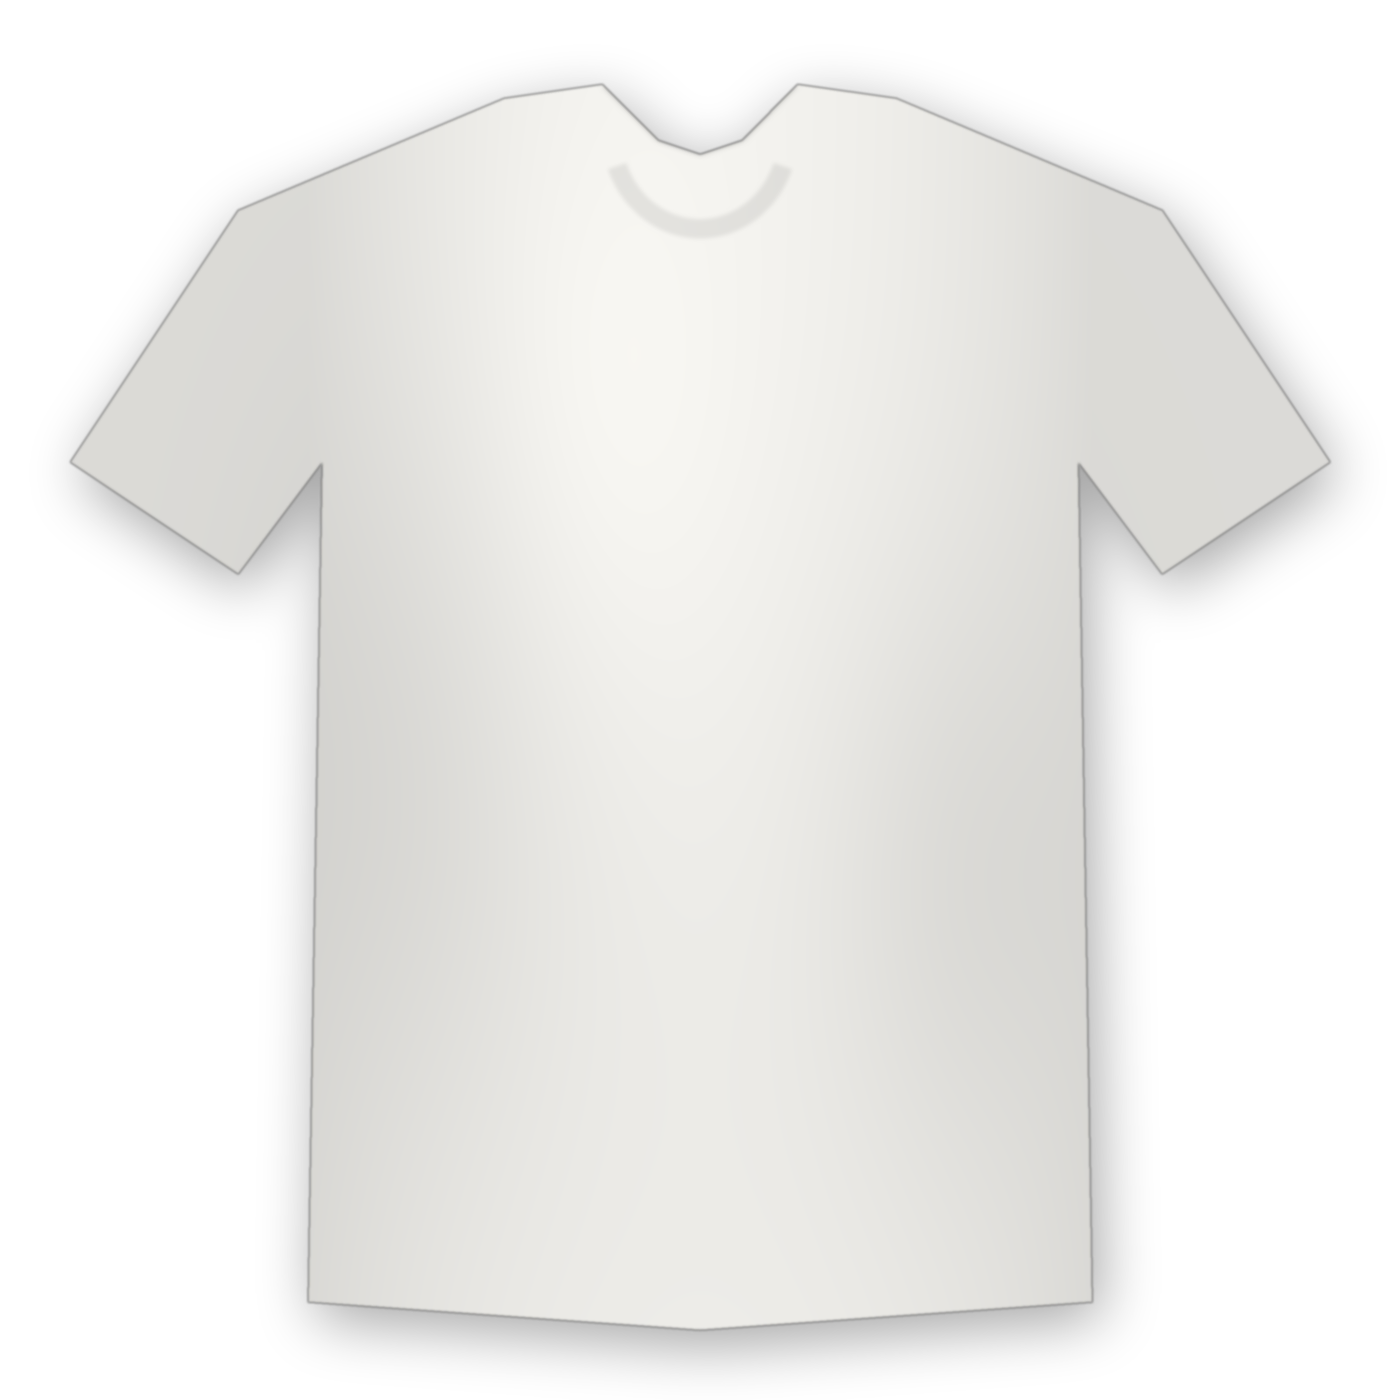
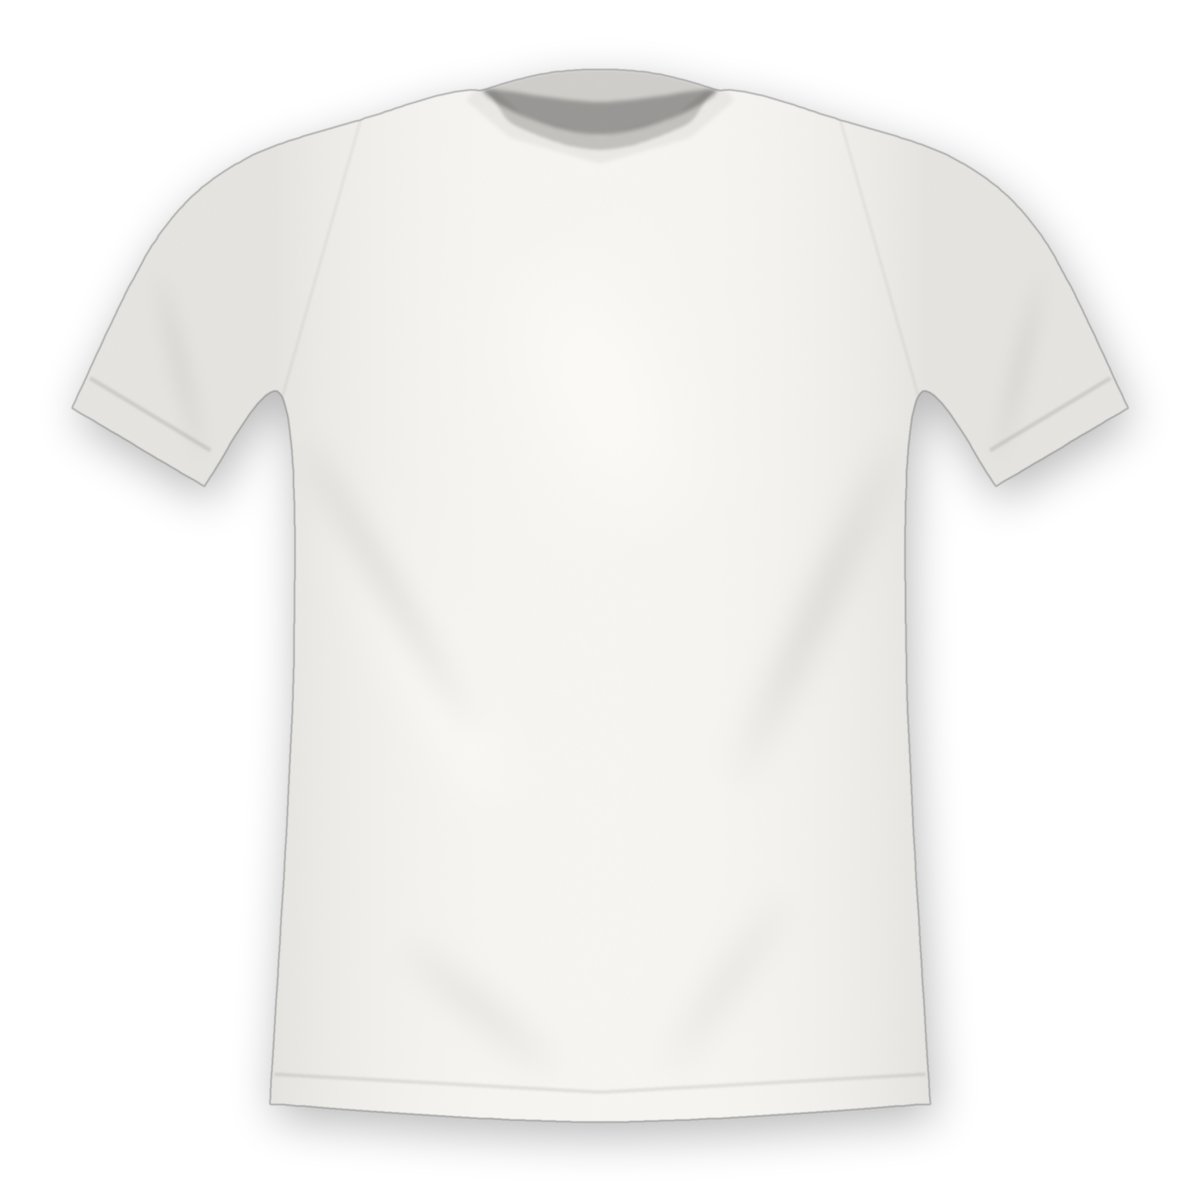
Still templates: menu sizing, mockup draft, chart-animated, tests, README

diff --git a/templates/_stills/make_placeholders.py b/templates/_stills/make_placeholders.py
@@ -201,39 +201,87 @@ def product(path, w=900, h=1100):
     print(path.relative_to(ROOT), path.stat().st_size // 1024, "KB")
 
 
-def tshirt(path, w=1400, h=1400, color=(244, 243, 239)):
-    """Front view t-shirt on transparent background with soft fabric shading."""
+def catmull(points, n=24):
+    """Smooth closed curve through points; a point given twice in a row stays a corner."""
+    pts = list(points)
+    out = []
+    m = len(pts)
+    for i in range(m):
+        p0, p1, p2, p3 = pts[i - 1], pts[i], pts[(i + 1) % m], pts[(i + 2) % m]
+        if p1 == p2:
+            continue
+        for k in range(n):
+            t = k / n
+            t2, t3 = t * t, t * t * t
+            out.append(tuple(0.5 * ((2 * p1[j]) + (-p0[j] + p2[j]) * t + (2 * p0[j] - 5 * p1[j] + 4 * p2[j] - p3[j]) * t2
+                                    + (-p0[j] + 3 * p1[j] - 3 * p2[j] + p3[j]) * t3) for j in (0, 1)))
+    return out
+
+
+def tshirt(path, w=1200, h=1200, color=(246, 245, 241)):
+    """Front view crew-neck t-shirt on transparent background: smooth outline, folds, seams,
+    fine cotton grain. Near white, so a colour can be multiplied over it."""
     k = 2
     W, H = w * k, h * k
+
     def P(x, y):
         return (x * W, y * H)
-    outline = [P(0.36, 0.07), P(0.43, 0.06), P(0.47, 0.1), P(0.5, 0.11), P(0.53, 0.1), P(0.57, 0.06), P(0.64, 0.07),
-               P(0.83, 0.15), P(0.95, 0.33), P(0.83, 0.41), P(0.77, 0.33), P(0.78, 0.93), P(0.5, 0.95), P(0.22, 0.93),
-               P(0.23, 0.33), P(0.17, 0.41), P(0.05, 0.33), P(0.17, 0.15)]
+    c = [(0.395, 0.075), (0.43, 0.105), (0.5, 0.125), (0.57, 0.105), (0.605, 0.075),
+         (0.70, 0.10), (0.80, 0.135), (0.87, 0.20), (0.94, 0.34), (0.94, 0.34), (0.83, 0.405), (0.83, 0.405),
+         (0.765, 0.33), (0.755, 0.55), (0.775, 0.92), (0.775, 0.92), (0.5, 0.935), (0.225, 0.92), (0.225, 0.92),
+         (0.245, 0.55), (0.235, 0.33), (0.17, 0.405), (0.17, 0.405), (0.06, 0.34), (0.06, 0.34), (0.13, 0.20),
+         (0.20, 0.135), (0.30, 0.10)]
+    outline = [P(x, y) for x, y in catmull(c)]
     mask = Image.new("L", (W, H), 0)
     ImageDraw.Draw(mask).polygon(outline, fill=255)
-    mask = mask.filter(ImageFilter.GaussianBlur(k * 1.2))
-    base = np.zeros((H, W, 3), np.float32) + np.array(color, np.float32)
-    # shading: darker at the sides and under the sleeves, folds
+    back = [P(x, y) for x, y in catmull([(0.392, 0.078), (0.392, 0.078), (0.45, 0.062), (0.5, 0.058), (0.55, 0.062), (0.608, 0.078), (0.608, 0.078), (0.56, 0.12), (0.5, 0.14), (0.44, 0.12)], n=16)]
+    ImageDraw.Draw(mask).polygon(back, fill=255)
+    mask = mask.filter(ImageFilter.GaussianBlur(k * 0.8))
+    backm = Image.new("L", (W, H), 0)
+    ImageDraw.Draw(backm).polygon(back, fill=255)
+    ImageDraw.Draw(backm).polygon(outline, fill=0)
+    backm = np.array(backm.filter(ImageFilter.GaussianBlur(k * 1.5))) / 255.0
     yy, xx = np.mgrid[0:H, 0:W].astype(np.float32)
     xn, yn = xx / W, yy / H
-    shade = 1 - 0.10 * np.clip(np.abs(xn - 0.5) / 0.28, 0, 1) ** 2
-    for (fx, fy, fr, amt) in [(0.3, 0.55, 0.12, -0.05), (0.68, 0.62, 0.1, -0.05), (0.5, 0.82, 0.18, -0.03), (0.42, 0.3, 0.1, 0.03)]:
-        shade += amt * np.exp(-(((xn - fx) / fr) ** 2 + ((yn - fy) / (fr * 2.2)) ** 2))
-    # collar
-    col_mask = Image.new("L", (W, H), 0)
-    ImageDraw.Draw(col_mask).arc([int(0.43 * W), int(0.02 * H), int(0.57 * W), int(0.17 * H)], 20, 160, fill=255, width=int(0.014 * W))
-    col_mask = np.array(col_mask.filter(ImageFilter.GaussianBlur(k * 2))) / 255.0
-    shade -= 0.08 * col_mask
+    shade = 1 - 0.07 * np.clip(np.abs(xn - 0.5) / 0.27, 0, 1) ** 3
+
+    def streak(x0, y0, x1, y1, width, amt):
+        dx, dy = x1 - x0, y1 - y0
+        L2 = dx * dx + dy * dy
+        t = np.clip(((xn - x0) * dx + (yn - y0) * dy) / L2, 0, 1)
+        d = np.sqrt((xn - (x0 + t * dx)) ** 2 + (yn - (y0 + t * dy)) ** 2)
+        return amt * np.exp(-(d / width) ** 2) * np.sin(np.pi * t)
+    shade += streak(0.25, 0.36, 0.40, 0.62, 0.018, -0.06) + streak(0.75, 0.36, 0.61, 0.66, 0.02, -0.06)
+    shade += streak(0.27, 0.40, 0.42, 0.68, 0.03, 0.025) + streak(0.33, 0.78, 0.47, 0.90, 0.02, -0.04)
+    shade += streak(0.66, 0.74, 0.55, 0.90, 0.02, -0.035) + streak(0.45, 0.2, 0.55, 0.45, 0.06, 0.02)
+    shade += streak(0.13, 0.22, 0.17, 0.39, 0.012, -0.035) + streak(0.87, 0.22, 0.83, 0.39, 0.012, -0.035)
+    seams = Image.new("L", (W, H), 0)
+    d = ImageDraw.Draw(seams)
+    d.line([P(0.229, 0.895), P(0.5, 0.91), P(0.771, 0.895)], fill=255, width=int(0.003 * W))
+    d.line([P(0.075, 0.315), P(0.175, 0.375)], fill=255, width=int(0.003 * W))
+    d.line([P(0.925, 0.315), P(0.825, 0.375)], fill=255, width=int(0.003 * W))
+    d.line([P(0.30, 0.10), P(0.235, 0.33)], fill=160, width=int(0.002 * W))
+    d.line([P(0.70, 0.10), P(0.765, 0.33)], fill=160, width=int(0.002 * W))
+    seams = np.array(seams.filter(ImageFilter.GaussianBlur(k * 1.2))) / 255.0
+    shade -= 0.10 * seams
+    neck = [(0.395, 0.075), (0.43, 0.105), (0.5, 0.125), (0.57, 0.105), (0.605, 0.075)]
+    rib = Image.new("L", (W, H), 0)
+    ImageDraw.Draw(rib).line([P(x, y) for x, y in neck], fill=255, width=int(0.022 * W), joint="curve")
+    rib = np.array(rib.filter(ImageFilter.GaussianBlur(k * 2))) / 255.0
+    shade -= 0.05 * rib
     inner = Image.new("L", (W, H), 0)
-    ImageDraw.Draw(inner).polygon([P(0.43, 0.06), P(0.47, 0.1), P(0.5, 0.11), P(0.53, 0.1), P(0.57, 0.06), P(0.5, 0.075)], fill=255)
-    shade -= 0.25 * np.array(inner.filter(ImageFilter.GaussianBlur(k * 3))) / 255.0
-    rgb = np.clip(base * shade[..., None], 0, 255)
-    # drop shadow
-    shadow = mask.filter(ImageFilter.GaussianBlur(W * 0.02))
+    ImageDraw.Draw(inner).polygon([P(x, y) for x, y in catmull([(0.405, 0.075), (0.44, 0.098), (0.5, 0.112), (0.56, 0.098), (0.595, 0.075), (0.5, 0.085)], n=12)], fill=255)
+    shade -= 0.22 * np.array(inner.filter(ImageFilter.GaussianBlur(k * 2))) / 255.0
+    shade -= 0.16 * backm
+    rng = np.random.default_rng(3)
+    grain = rng.normal(0, 1, (H // 2, W // 2)).astype(np.float32)
+    grain = np.array(Image.fromarray(((grain * 18) + 128).clip(0, 255).astype(np.uint8)).resize((W, H), Image.BILINEAR)) / 255.0 - 0.5
+    shade += 0.018 * grain
+    rgb = np.clip(np.array(color, np.float32) * shade[..., None], 0, 255)
+    shadow = mask.filter(ImageFilter.GaussianBlur(W * 0.018))
     out = Image.new("RGBA", (W, H), (0, 0, 0, 0))
-    sh = Image.fromarray((np.array(shadow) * 0.35).astype(np.uint8))
-    out.paste((0, 0, 0, 255), (int(W * 0.006), int(H * 0.012)), sh)
+    sh = Image.fromarray((np.array(shadow) * 0.28).astype(np.uint8))
+    out.paste((0, 0, 0, 255), (int(W * 0.004), int(H * 0.012)), sh)
     shirt = Image.fromarray(rgb.astype(np.uint8)).convert("RGBA")
     out.paste(shirt, (0, 0), mask)
     out = out.resize((w, h), Image.LANCZOS)

diff --git a/templates/render_template.py b/templates/render_template.py
@@ -37,7 +37,8 @@ Still templates and tables (manifest "kind": "still", "sizes", "data" params):
                                 (first row of a run of equal cells: section headers); in {{= }} the
                                 loop index is i / n and number cells are row_<col>
     {{rows.count}}              number of rows (rows_count in expressions; also rows_groups_<col>
-                                runs of equal cells, rows_filled_<col>, rows_max_<col>, rows_min_<col>)
+                                runs of equal cells, rows_maxrun_<col> longest run, rows_maxlen_<col>, rows_filled_<col>,
+                                rows_max_<col>, rows_min_<col>)
     {{: name = expr}}           bind a number for the rest of the enclosing block (no output)
     <colour>_luma               in expressions: relative luminance of a colour param, 0..1
     <enum>_<option>             in expressions: 1 when the enum param has that value, else 0
@@ -301,7 +302,7 @@ def _data(v, p: dict, pid: str) -> list[dict]:
         if len(v.encode("utf-8")) > MAX_DATA_BYTES:
             raise ValueError(f"param {pid!r}: table is larger than {MAX_DATA_BYTES // 1024} KB")
         s = v.strip()
-        if s.startswith("["):
+        if s.startswith(("[", "{", "\"")):
             try:
                 rows = json.loads(s)
             except json.JSONDecodeError as e:
@@ -782,6 +783,12 @@ def _numeric_env(values, decl, scope):
                 # runs of equal consecutive cells (sections) and non-empty cells
                 env[f"{pid}_groups_{cid}"] = sum(1 for k, v in enumerate(cells) if k == 0 or v != cells[k - 1])
                 env[f"{pid}_filled_{cid}"] = sum(1 for v in cells if v not in ("", None))
+                runs, cur = [], 0
+                for k, v in enumerate(cells):
+                    cur = cur + 1 if k and v == cells[k - 1] else 1
+                    runs.append(cur)
+                env[f"{pid}_maxrun_{cid}"] = max(runs, default=0)
+                env[f"{pid}_maxlen_{cid}"] = max((len(v) for v in cells if isinstance(v, str)), default=0)
                 nums = [v for v in cells if isinstance(v, float)]
                 if nums:
                     env[f"{pid}_max_{cid}"] = max(nums)

diff --git a/templates/README.md b/templates/README.md
@@ -1,0 +1,44 @@
+# AgentFX templates
+
+Ready-made Reel Script sources with a handful of parameters. Each template is a directory with
+`template.reel` (Reel Script with `{{param}}` placeholders), `manifest.json` (the params),
+a preview rendered from the defaults and a one-paragraph `README.md`. The contract and the
+template language are in [`docs/PLATFORM.md`](../docs/PLATFORM.md#templates-p3-writes-p1-and-p2-read);
+`render_template.py` is the single implementation of substitution (stdlib only).
+
+## Still graphics
+
+Still templates (`"kind": "still"`) render one exact frame per output size with `agentfx frame`:
+the same engine as the videos, so text is exact, brand colours are tokens, and one design covers
+every channel. Each template draws into a page of design units (short side 1080) that is scaled
+to the output pixels, so print sizes (A4/A5/A3 at 300 dpi) stay crisp vectors.
+
+| Template | What it makes | Sizes | Search intent |
+|---|---|---|---|
+| [flyer](flyer/) | Event or sale flyer: photo, serif headline, label, subline, date and place | A4, A5, A3, Instagram post, portrait, story | flyer erstellen, flyer maker, poster maker |
+| [social-set](social-set/) | One message with logo and call to action for every social channel | Instagram post, portrait, story, LinkedIn, X, OG image, Facebook | social media post, og image |
+| [collage](collage/) | 2 to 9 photos as grid, mosaic with a hero, or polaroids; optional title | Instagram post, portrait, story, Facebook, X, Pinterest, A4 landscape | collage erstellen, photo collage |
+| [chart](chart/) | Bar, line, area, donut or KPI tiles from a table | Instagram post, portrait, story, LinkedIn, X, OG image, Full HD | diagramm erstellen, chart maker |
+| [youtube-thumbnail](youtube-thumbnail/) | Huge outlined text, cut-out subject, arrow / circle / burst, badge | 1280x720, Full HD | youtube thumbnail maker |
+| [banner](banner/) | Display ads and social covers from one message | 728x90, 300x250, 160x600, 300x600, 970x250, 320x100, LinkedIn / X / Facebook covers, YouTube channel art | banner erstellen, banner maker |
+| [mockup](mockup/) | Screenshot on a 3D phone or a laptop, artwork on a t-shirt | Instagram post, portrait, story, X, OG image, Full HD | mockup generator, t-shirt mockup |
+| [menu](menu/) | Typeset restaurant menu from a table (section, dish, description, price) | A4, A5, A3, Instagram portrait, story, 16:9 menu board | speisekarte erstellen, menu maker |
+| [certificate](certificate/) | Certificate with name, course, date, signature and seal; one per table row | A4 / Letter landscape, A4 portrait, LinkedIn, Instagram | certificate generator, urkunde |
+
+The animated sibling of `chart` is the video template [chart-animated](chart-animated/).
+
+```bash
+python3 templates/render_template.py flyer --size a4-flyer --set headline="Night Market" -o out/flyer.reel --copy-assets out/
+agentfx frame out/flyer.reel --at 0s -o out/flyer-a4.png
+python3 templates/render_template.py menu --size story --set rows=@menu.csv -o out/menu.reel --copy-assets out/
+python3 templates/render_template.py certificate --size a4-landscape \
+  --set 'recipients=[{"name": "Ada"}, {"name": "Grace"}]' --set index=2 -o out/cert-2.reel --copy-assets out/
+python3 templates/test_still_templates.py          # unit tests, every size with edge inputs, lint
+AGENTFX_STILL_RENDER=1 python3 templates/test_still_templates.py   # plus one frame per size
+```
+
+Tables (`data` params) take a JSON array of objects or CSV text (header row; `,` `;` or tab);
+`--set rows=@file.csv` reads a file. `image` params name a PNG next to the instantiated source
+(the service maps uploads; `--copy-assets` copies the template's default images). The default
+images are drawn by code (`_stills/make_placeholders.py`, `_stills/screen-*.reel`), so they carry
+no third-party rights.
